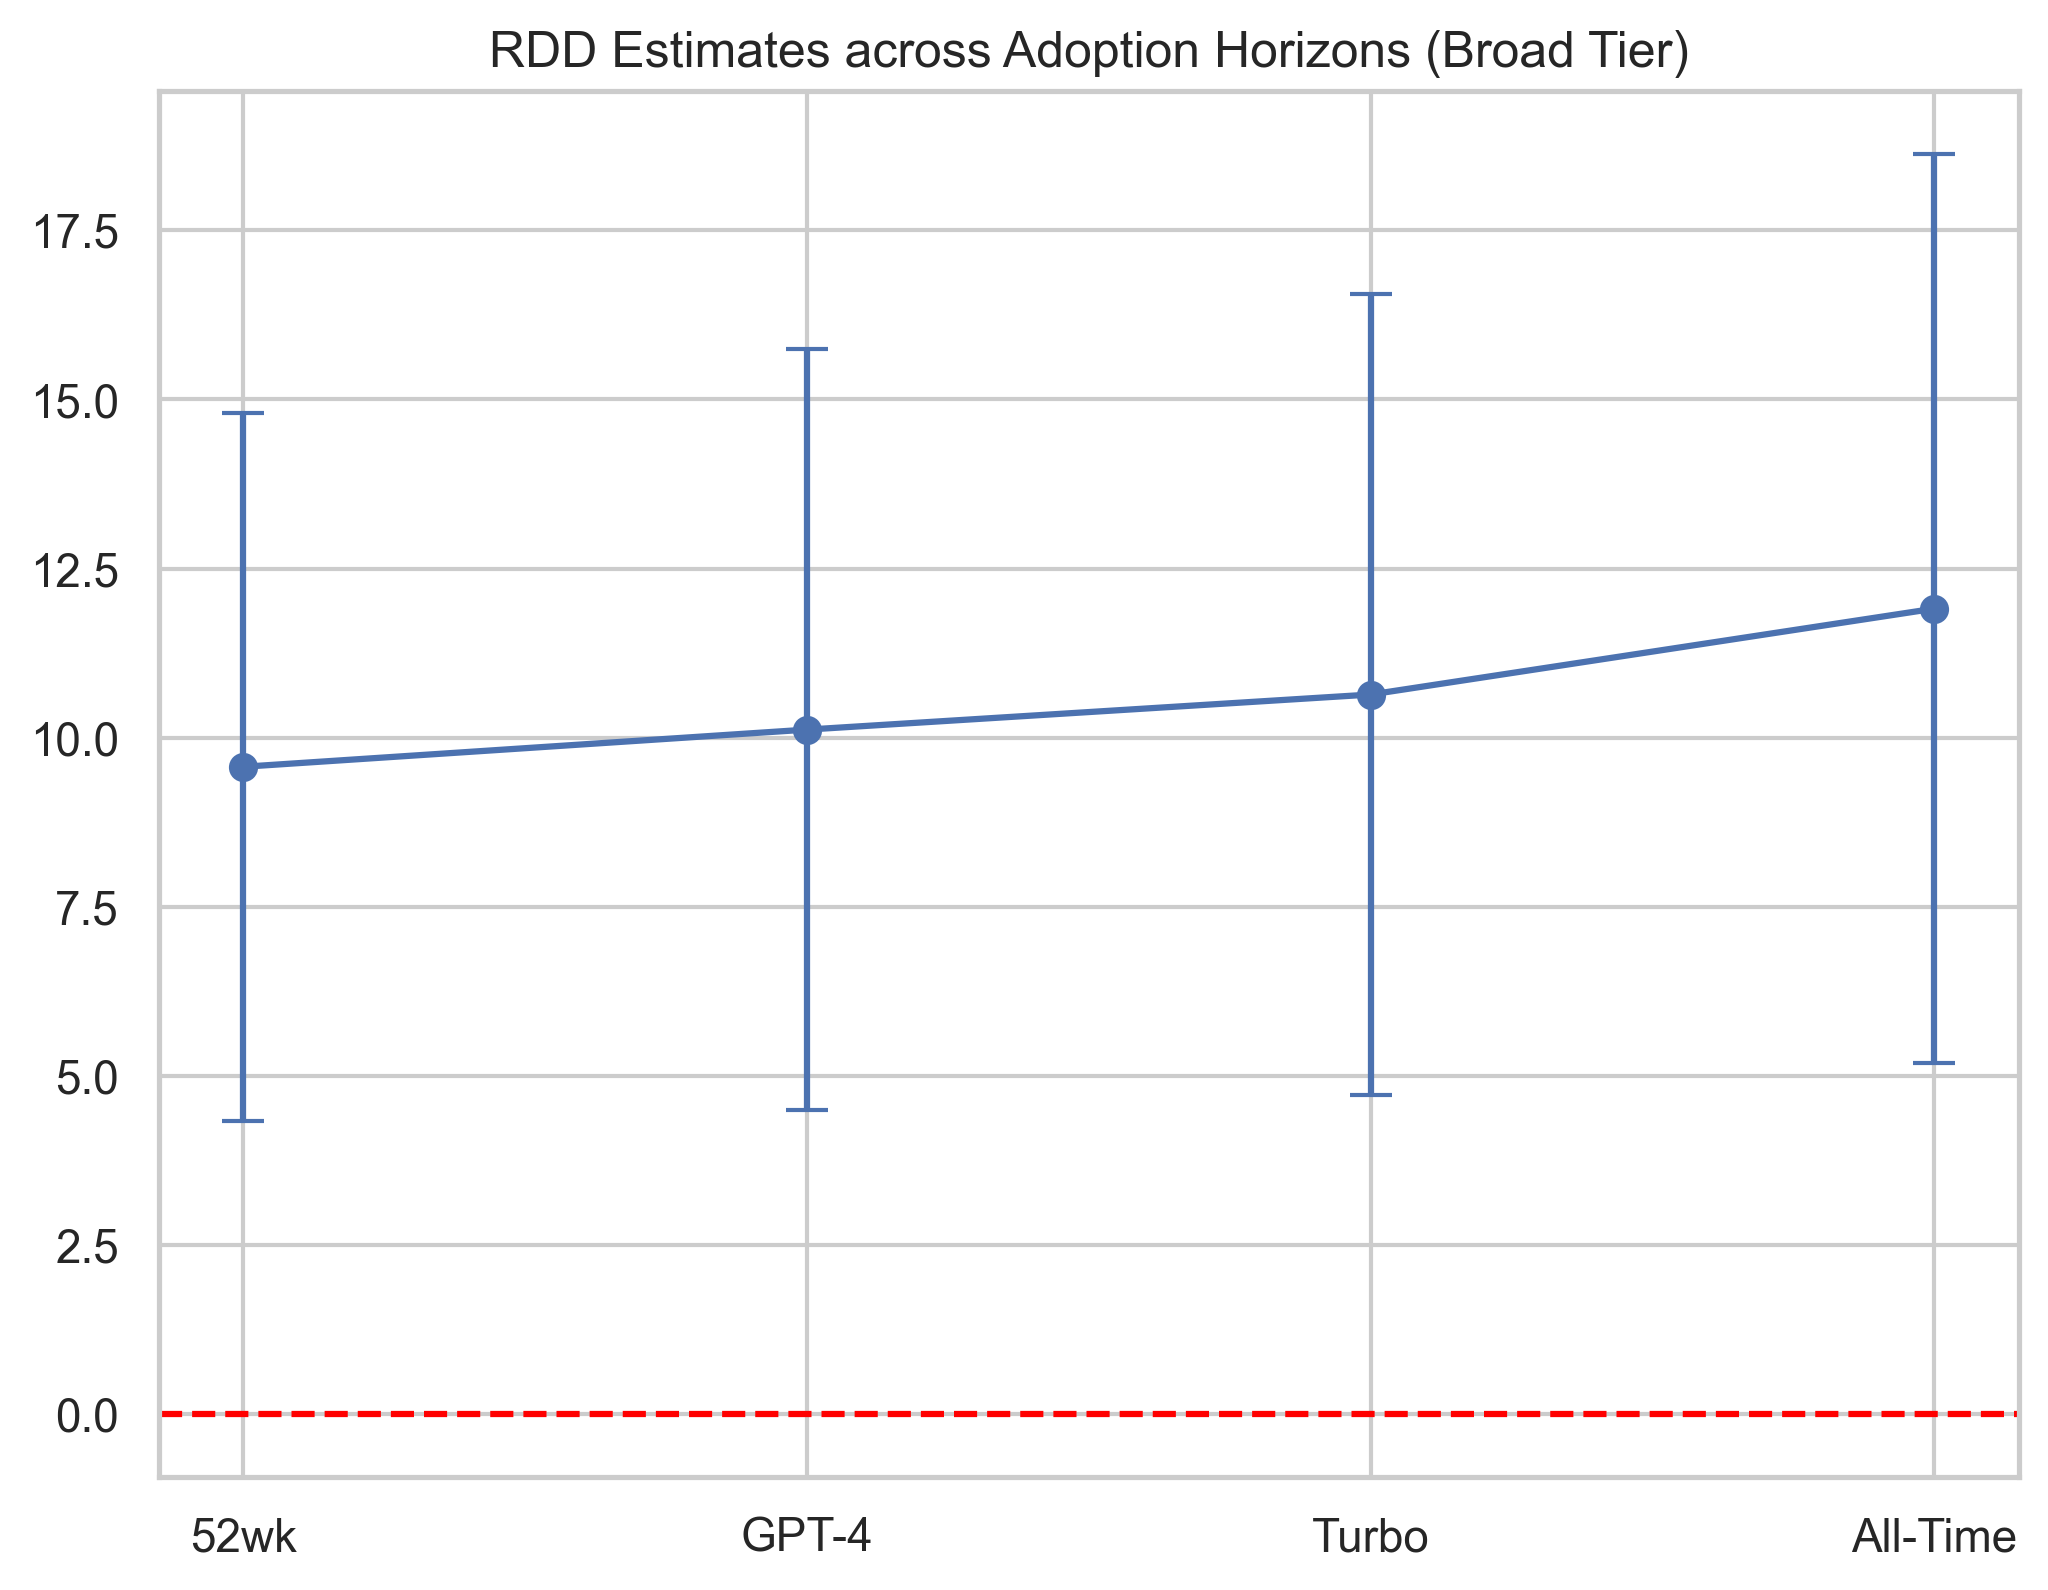
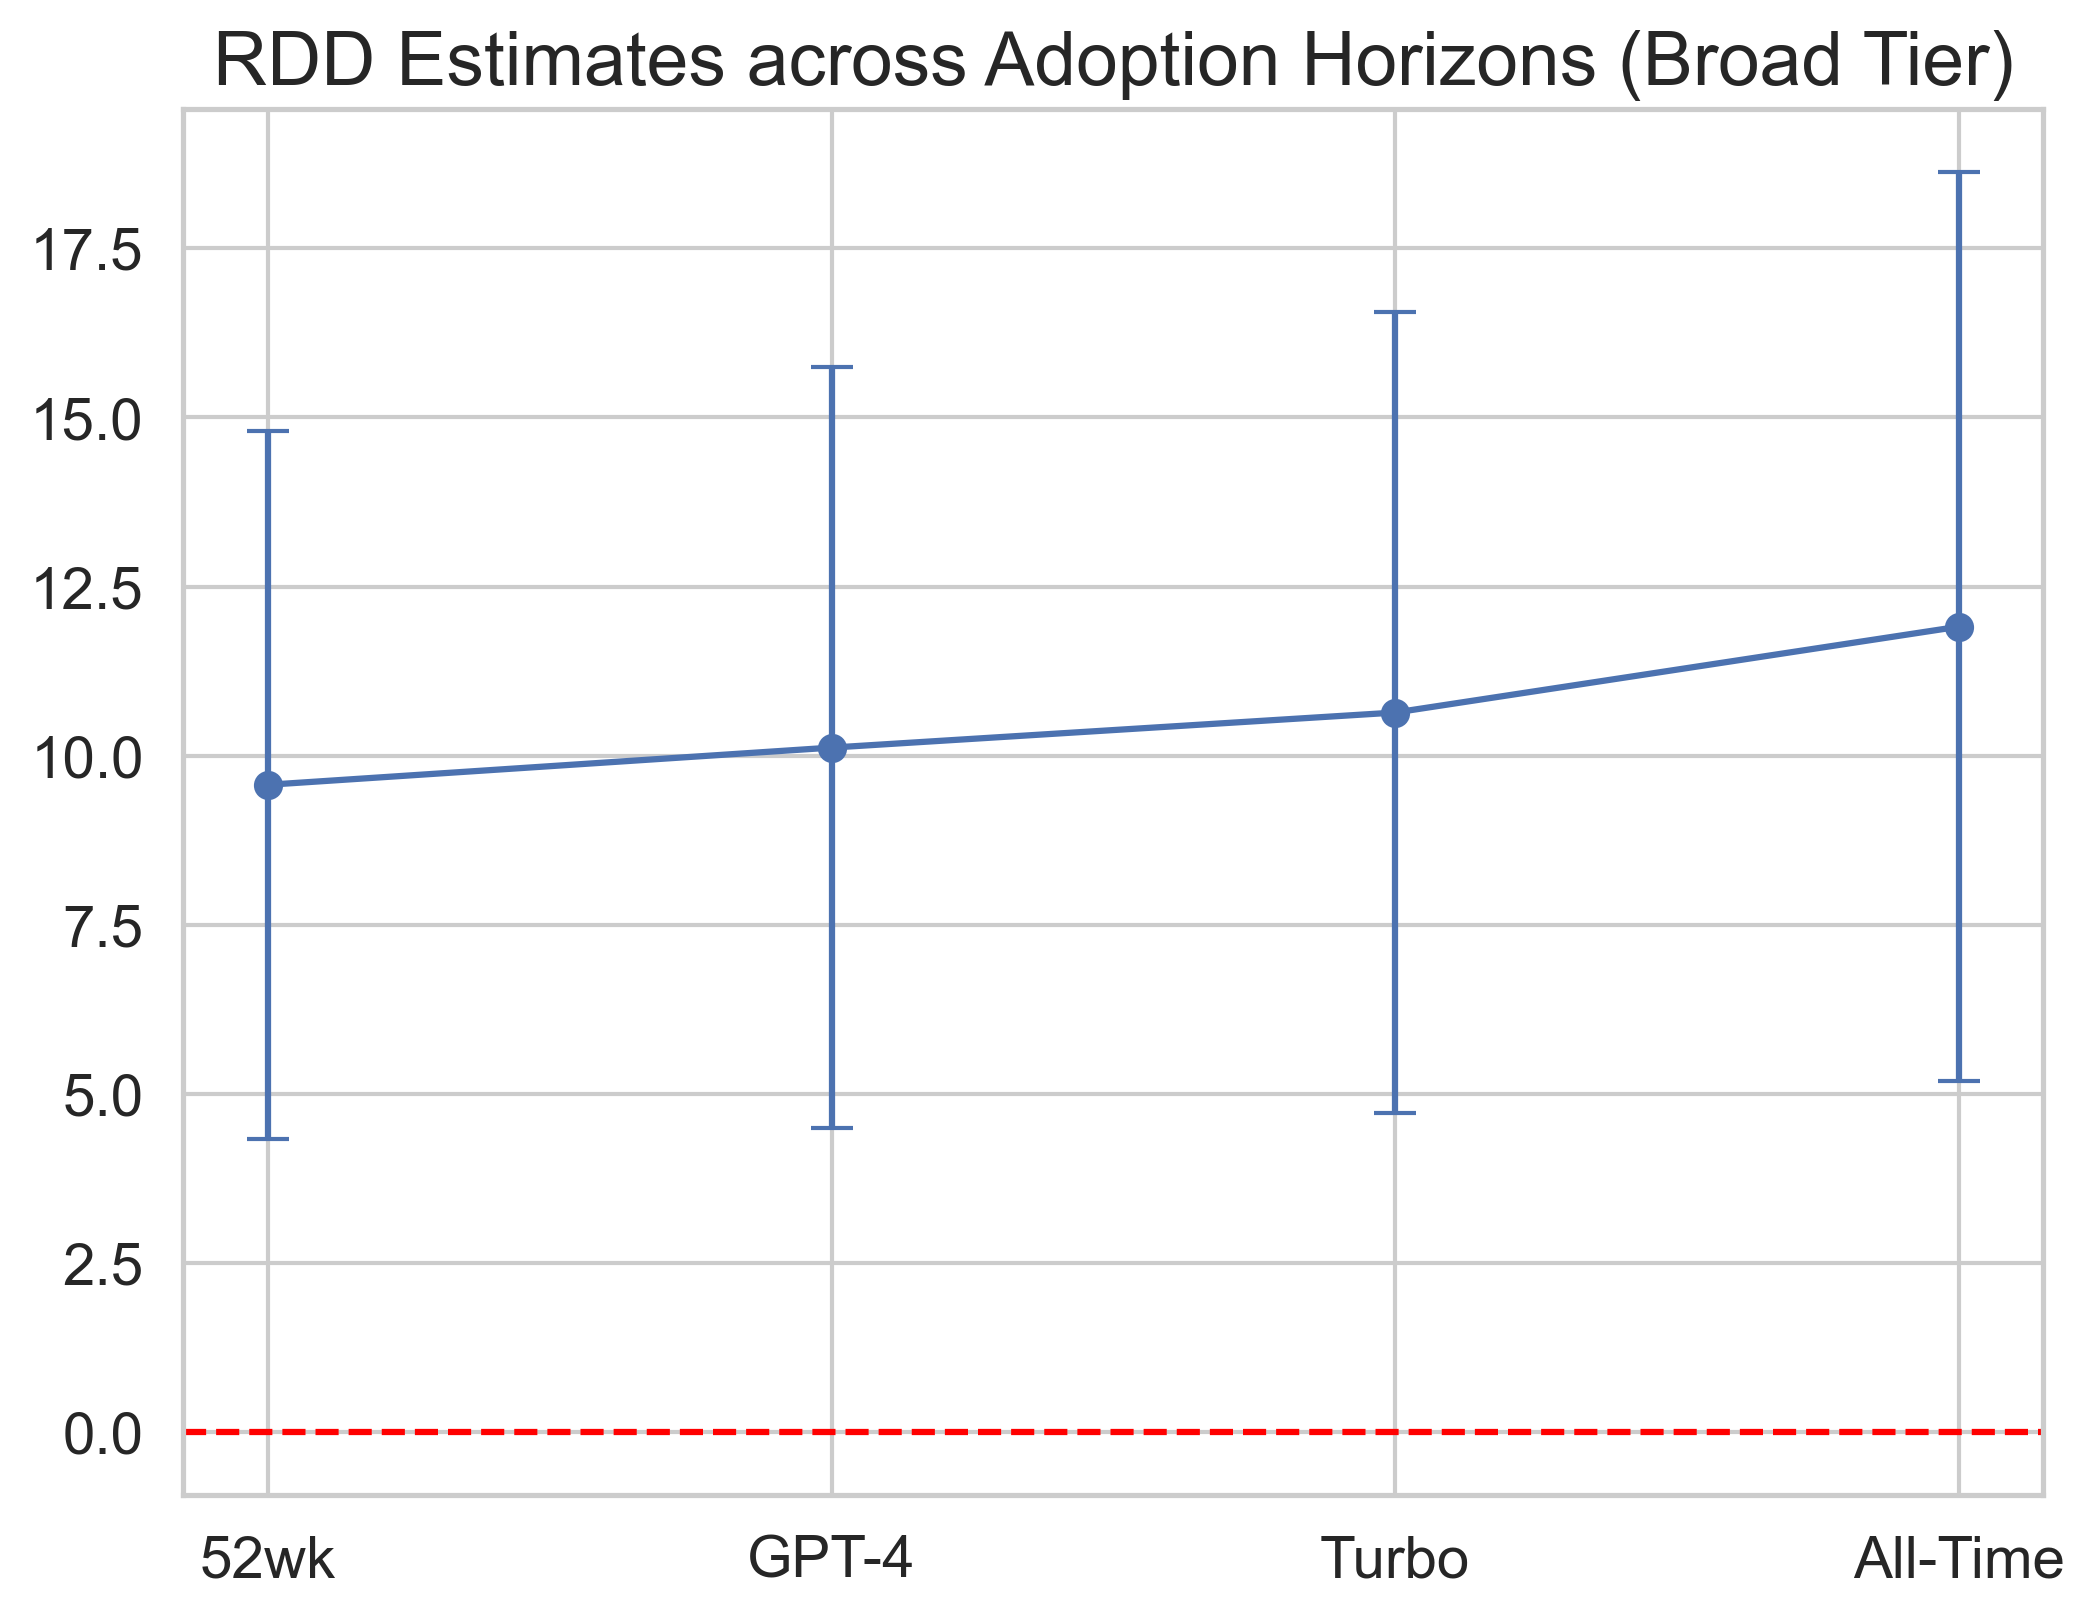
style: increase global font sizes for all figures

Changed region(s): [[0.0, 0.0, 1.0, 0.9862]]

diff --git a/scripts/main/14_visualize_long_horizon_trajectories.py b/scripts/main/14_visualize_long_horizon_trajectories.py
@@ -61,9 +61,9 @@ def main():
     ax.axvline(CHATGPT_RELEASE, color="red", linestyle="-", alpha=0.8, label="ChatGPT Release (Nov 2022)")
     ax.axvline(GPT4_RELEASE, color="darkred", linestyle=":", alpha=0.8, label="GPT-4 Release (March 2023)")
 
-    ax.set_title("The Long-Horizon Diffusion Gap: July vs. October 2021 Cohorts", fontsize=14, fontweight='bold')
-    ax.set_ylabel("Average Weekly Downloads (Log Scale)", fontsize=12)
-    ax.set_xlabel("Calendar Date", fontsize=12)
+    ax.set_title("The Long-Horizon Diffusion Gap: July vs. October 2021 Cohorts", fontweight='bold')
+    ax.set_ylabel("Average Weekly Downloads (Log Scale)")
+    ax.set_xlabel("Calendar Date")
     ax.set_yscale("log")
     
     ax.legend(title="Library Cohort", loc="upper left")
@@ -84,9 +84,9 @@ def main():
     ax2.axvline(cutoff_date, color="grey", linestyle="--", alpha=0.7)
     ax2.axvline(CHATGPT_RELEASE, color="red", linestyle="-", alpha=0.8, label="ChatGPT Release")
     
-    ax2.set_title("Cumulative Diffusion Advantage (All-Time)", fontsize=14, fontweight='bold')
-    ax2.set_ylabel("Cumulative Average Downloads", fontsize=12)
-    ax2.set_xlabel("Calendar Date", fontsize=12)
+    ax2.set_title("Cumulative Diffusion Advantage (All-Time)", fontweight='bold')
+    ax2.set_ylabel("Cumulative Average Downloads")
+    ax2.set_xlabel("Calendar Date")
     ax2.set_yscale("log")
     
     plt.tight_layout()

diff --git a/scripts/main/19_compute_descriptive_percentages.py b/scripts/main/19_compute_descriptive_percentages.py
@@ -250,11 +250,11 @@ def plot_normalized_timeseries(wide_pypi, ci_lower, ci_upper):
     ax.axvline(CHATGPT_RELEASE, color="red", linestyle="-", alpha=0.8, linewidth=1.5, label="ChatGPT release")
     ax.axvline(GPT4_RELEASE, color="darkred", linestyle=":", alpha=0.8, linewidth=1.5, label="GPT-4 release")
 
-    ax.set_xlabel("Calendar Date", fontsize=12)
-    ax.set_ylabel("Log ratio: Pre-cutoff / Post-cutoff\n(positive = pre-cutoff advantage)", fontsize=11)
-    ax.set_title("Normalized Diffusion Gap: Pre- vs Post-Cutoff Libraries (PyPI)", fontsize=13, fontweight="bold")
+    ax.set_xlabel("Calendar Date")
+    ax.set_ylabel("Log ratio: Pre-cutoff / Post-cutoff\n(positive = pre-cutoff advantage)")
+    ax.set_title("Normalized Diffusion Gap: Pre- vs Post-Cutoff Libraries (PyPI)", fontweight="bold")
 
-    ax.legend(loc="upper left", fontsize=10)
+    ax.legend(loc="upper left")
     ax.xaxis.set_major_formatter(mdates.DateFormatter("%b %Y"))
     ax.xaxis.set_major_locator(mdates.MonthLocator(interval=6))
     fig.autofmt_xdate()

diff --git a/scripts/appendix/17_visualize_suppression.py b/scripts/appendix/17_visualize_suppression.py
@@ -75,9 +75,9 @@ def main():
                     line_kws={'linestyle':'-' if "2021" in period else '--', 'alpha':0.8})
 
     ax.axvline(0, color="black", linestyle=":", alpha=0.5)
-    ax.set_title(f"Visualizing the 'Suppression' Effect: 2021 vs Historical Norms\n(Subsample: Successful Libraries, min {MIN_SUCCESS_LOW} downloads @ 26w)", fontsize=13, fontweight='bold')
-    ax.set_xlabel("Weeks since Cutoff (Sept 2021 vs. Sept Placebos)", fontsize=11)
-    ax.set_ylabel("Log Post-AI Cumulative Downloads", fontsize=11)
+    ax.set_title(f"Visualizing the 'Suppression' Effect: 2021 vs Historical Norms\n(Subsample: Successful Libraries, min {MIN_SUCCESS_LOW} downloads @ 26w)", fontweight='bold')
+    ax.set_xlabel("Weeks since Cutoff (Sept 2021 vs. Sept Placebos)")
+    ax.set_ylabel("Log Post-AI Cumulative Downloads")
     
     # Custom Legend
     handles, labels = ax.get_legend_handles_labels()

diff --git a/scripts/appendix/18_bandwidth_sensitivity_suppression.py b/scripts/appendix/18_bandwidth_sensitivity_suppression.py
@@ -122,10 +122,10 @@ def main():
                         fmt='o-', color=color, capsize=5, linewidth=2, label=lbl)
 
     ax.axhline(0, color='black', linestyle='--', alpha=0.5)
-    ax.set_title(f"Bandwidth Sensitivity: Diff-in-RDD Excess Jump\n(Successful tier, min {MIN_SUCCESS_LOW} @ 26w)", fontsize=13, fontweight='bold')
-    ax.set_xlabel("Bandwidth (Weeks from Cutoff)", fontsize=12)
-    ax.set_ylabel("Diff-in-RDD Estimate", fontsize=12)
-    ax.legend(fontsize=10)
+    ax.set_title(f"Bandwidth Sensitivity: Diff-in-RDD Excess Jump\n(Successful tier, min {MIN_SUCCESS_LOW} @ 26w)", fontweight='bold')
+    ax.set_xlabel("Bandwidth (Weeks from Cutoff)")
+    ax.set_ylabel("Diff-in-RDD Estimate")
+    ax.legend()
     ax.grid(True, linestyle=':', alpha=0.6)
 
     plt.tight_layout()

diff --git a/scripts/main/04_diagnostics.py b/scripts/main/04_diagnostics.py
@@ -166,9 +166,9 @@ def main():
                         scatter=False, ax=ax, color=colors[side],
                         line_kws={"linewidth": 2})
         ax.axvline(0, color="black", linestyle="--", alpha=0.5)
-        ax.set_xlabel("Weeks from Cutoff", fontsize=11)
-        ax.set_ylabel(label, fontsize=11)
-        ax.set_title(label.replace("Log Cumulative Downloads ", "").strip("()") + " Downloads", fontsize=12)
+        ax.set_xlabel("Weeks from Cutoff")
+        ax.set_ylabel(label)
+        ax.set_title(label.replace("Log Cumulative Downloads ", "").strip("()") + " Downloads")
     plt.tight_layout()
     plt.savefig(FIGURES_DIR / "rdd_horizon_binscatters.png", dpi=300)
     plt.close()

diff --git a/scripts/main/11_visualize_results.py b/scripts/main/11_visualize_results.py
@@ -33,8 +33,8 @@ def plot_suppression_visual():
     plt.figure(figsize=(8, 6))
     sns.barplot(data=df, x="Tier", y="Excess_Jump", palette="RdYlGn_r", hue="Tier", legend=False)
     plt.axhline(0, color='black', linewidth=1)
-    plt.title("The 'Cutoff Tax': Seasonal Suppression by Success Tier", fontsize=14)
-    plt.ylabel("Excess Jump (relative to placebo average)", fontsize=12)
+    plt.title("The 'Cutoff Tax': Seasonal Suppression by Success Tier")
+    plt.ylabel("Excess Jump (relative to placebo average)")
     plt.xticks(rotation=15)
     plt.savefig(FIGURES_DIR / "suppression_visual_success_tiers.png", dpi=300, bbox_inches='tight')
     plt.close()

diff --git a/scripts/appendix/16_bandwidth_sensitivity_github.py b/scripts/appendix/16_bandwidth_sensitivity_github.py
@@ -48,9 +48,9 @@ def main():
                 fmt='o-', capsize=5, label="GitHub Estimate (95% CI)")
     
     ax.axhline(0, color='red', linestyle='--')
-    ax.set_title(f"GitHub Bandwidth Sensitivity: {outcome}", fontsize=14, fontweight='bold')
-    ax.set_xlabel("Bandwidth (Weeks from Cutoff)", fontsize=12)
-    ax.set_ylabel("RDD Estimate (Jump in Log Imports)", fontsize=12)
+    ax.set_title(f"GitHub Bandwidth Sensitivity: {outcome}", fontweight='bold')
+    ax.set_xlabel("Bandwidth (Weeks from Cutoff)")
+    ax.set_ylabel("RDD Estimate (Jump in Log Imports)")
     ax.grid(True, alpha=0.3)
     
     plt.tight_layout()

diff --git a/scripts/utils.py b/scripts/utils.py
@@ -35,7 +35,16 @@ def get_weeks_since(start_col: pd.Series, end_col: pd.Series) -> pd.Series:
 def setup_plotting_style():
     """Configure consistent seaborn/matplotlib style for the project."""
     sns.set_theme(style="whitegrid")
-    plt.rcParams["figure.figsize"] = (10, 6)
+    plt.rcParams.update({
+        "figure.figsize": (10, 6),
+        "font.size": 16,
+        "axes.labelsize": 16,
+        "axes.titlesize": 18,
+        "xtick.labelsize": 14,
+        "ytick.labelsize": 14,
+        "legend.fontsize": 14,
+        "legend.title_fontsize": 16
+    })
 
 import rdrobust
 

diff --git a/scripts/appendix/15_bandwidth_sensitivity.py b/scripts/appendix/15_bandwidth_sensitivity.py
@@ -49,9 +49,9 @@ def main():
                 fmt='o-', capsize=5, label="Estimate (95% CI)")
     
     ax.axhline(0, color='red', linestyle='--')
-    ax.set_title(f"Bandwidth Sensitivity: {outcome}", fontsize=14, fontweight='bold')
-    ax.set_xlabel("Bandwidth (Weeks from Cutoff)", fontsize=12)
-    ax.set_ylabel("RDD Estimate", fontsize=12)
+    ax.set_title(f"Bandwidth Sensitivity: {outcome}", fontweight='bold')
+    ax.set_xlabel("Bandwidth (Weeks from Cutoff)")
+    ax.set_ylabel("RDD Estimate")
     ax.grid(True, alpha=0.3)
     
     plt.tight_layout()
